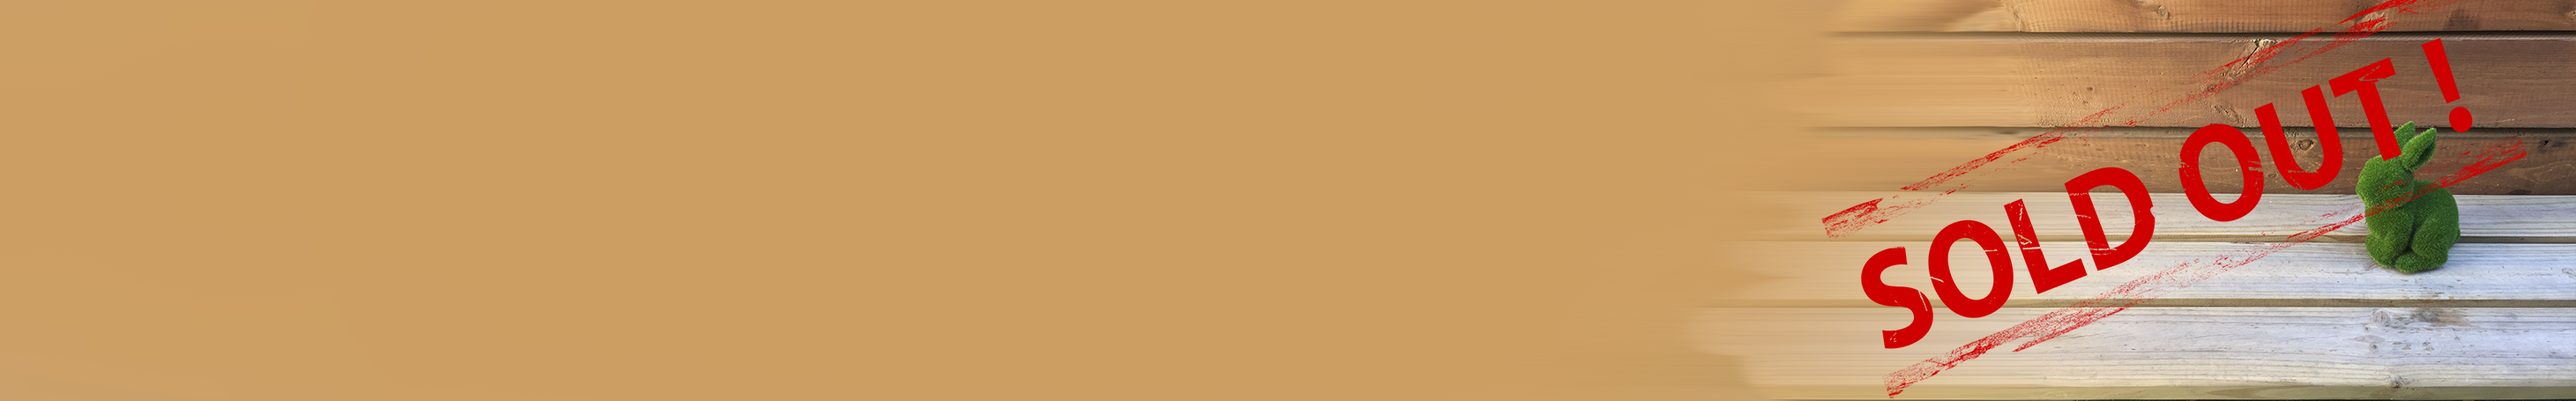
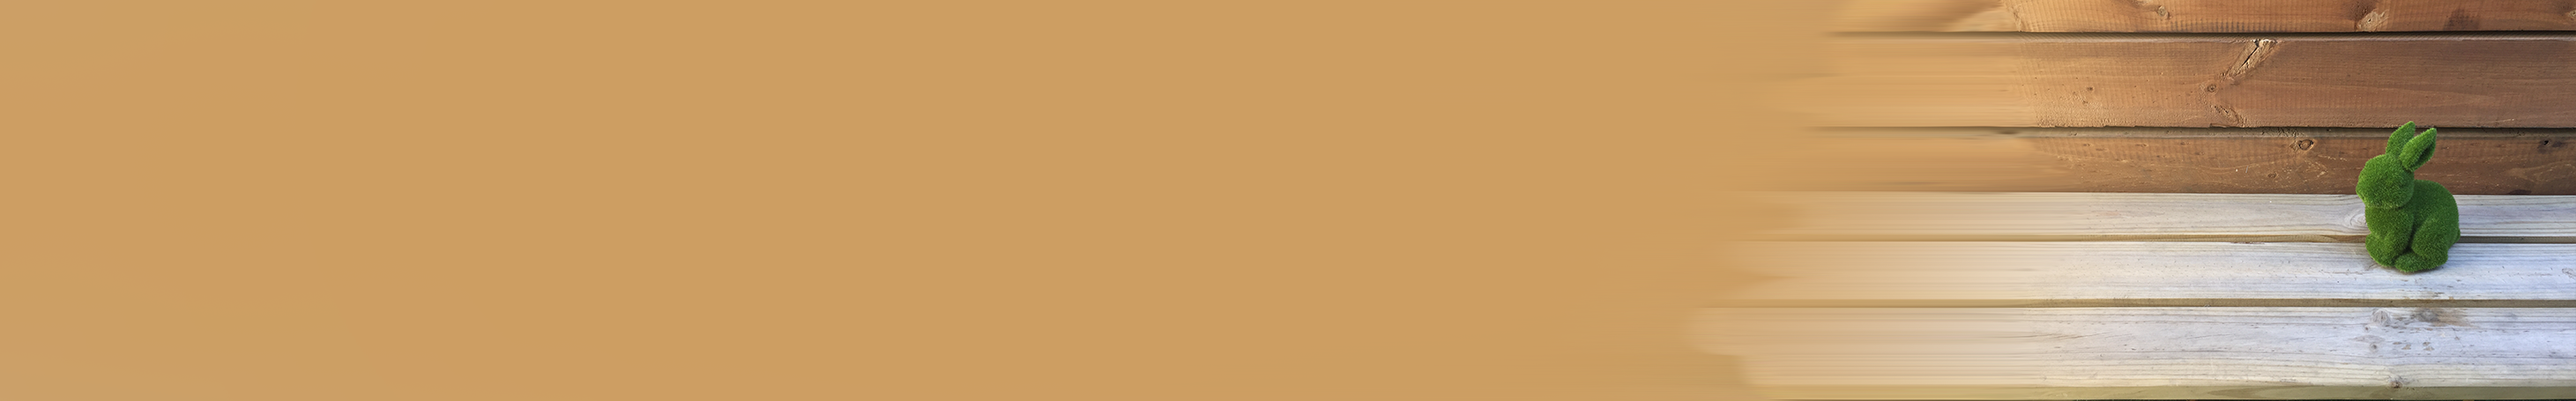
bunny not sold out, Buy with SnapScan updated

diff --git a/index.html b/index.html
@@ -85,11 +85,11 @@
                 <div class="thumbnail-1">
                     <img class="hidden-xs" src="./img/products/snapcode1.png" alt="">
                     <div class="caption">
-                        <h3 color:"white">Grass Rabbit : SOLD OUT</h3>
+                        <h3 color:"white">Grass Rabbit : R180</h3>
                         <h4>A cute addition to any home or office.</h4>
                         <p>
-                            <a href="https://pos.snapscan.io/qr/abodeSS?amount=18000&id=grassbunny" target="_blank" class="btn btn-primary">Click to <b>Pay with SnapScan</b></a>
-                            <a href="http://seene.co/s/HMqwta/" target="_blank" class="btn btn-default">View 3D on <b>Seene</b></a>
+                            <a href="https://pos.snapscan.io/qr/abodeSS?amount=18000&id=grassbunny" target="_blank" class="btn btn-primary">Buy with SnapScan</a>
+                            <a href="http://seene.co/s/HMqwta/" target="_blank" class="btn btn-default">View in 3D</a>
                         </p>
                     </div>
                 </div>
@@ -102,8 +102,8 @@
                         <h3>Hand Bowl : R400</h3>
                         <h4>Hand crafted wooden bowl.</h4>
                         <p>
-                            <a href="https://pos.snapscan.io/qr/abodeSS?amount=40000&id=handbowl" target="_blank" class="btn btn-primary">Click to <b>Pay with SnapScan</b></a>
-                            <a href="http://seene.co/s/cz9C7S/" target="_blank" class="btn btn-default">View 3D on <b>Seene</b></a>
+                            <a href="https://pos.snapscan.io/qr/abodeSS?amount=40000&id=handbowl" target="_blank" class="btn btn-primary">Buy with SnapScan</b></a>
+                            <a href="http://seene.co/s/cz9C7S/" target="_blank" class="btn btn-default">View in 3D</a>
                         </p>
                     </div>
                 </div>
@@ -116,8 +116,8 @@
                         <h3>"More" Canvas : R330</h3>
                         <h4>Perfect gift for your bedroom.</h4>
                         <p>
-                            <a href="https://pos.snapscan.io/qr/abodeSS?amount=33000&id=morecanvas" target="_blank" class="btn btn-primary">Click to <b>Pay with SnapScan</b></a>
-                            <a href="http://seene.co/s/VhwAGN/" target="_blank" class="btn btn-default">View 3D on <b>Seene</b></a>
+                            <a href="https://pos.snapscan.io/qr/abodeSS?amount=33000&id=morecanvas" target="_blank" class="btn btn-primary">Buy with SnapScan</a>
+                            <a href="http://seene.co/s/VhwAGN/" target="_blank" class="btn btn-default">View in 3D</a>
                         </p>
                     </div>
                 </div>
@@ -130,7 +130,7 @@
                         <h3>Pencil Set : R95</h3>
                         <h4>Brightly coloured pencils stored in a pencil.</h4>
                         <p>
-                            <a href="https://pos.snapscan.io/qr/abodeSS?amount=9500&id=pencilset" target="_blank" class="btn btn-primary">Click to <b>Pay with SnapScan</b></a>
+                            <a href="https://pos.snapscan.io/qr/abodeSS?amount=9500&id=pencilset" target="_blank" class="btn btn-primary">Buy with SnapScan</a>
                             
                         </p>
                     </div>
@@ -144,7 +144,7 @@
                         <h3>Koi Bowl : R228</h3>
                         <h4>Why go soy when you can go koi?</h4>
                         <p>
-                            <a href="https://pos.snapscan.io/qr/abodeSS?amount=22800&id=koibowl" target="_blank" class="btn btn-primary">Click to <b>Pay with SnapScan</b></a>
+                            <a href="https://pos.snapscan.io/qr/abodeSS?amount=22800&id=koibowl" target="_blank" class="btn btn-primary">Buy with SnapScan</a>
                         </p>
                     </div>
                 </div>
@@ -158,7 +158,7 @@
                         <h3>Sunglasses Mirror : R195</h3>
                         <h4>At home on the wall of any hipster pad.</h4>
                         <p>
-                            <a href="https://pos.snapscan.io/qr/abodeSS?amount=19500&id=sunglassesmirror" target="_blank" class="btn btn-primary">Click to <b>Pay with SnapScan</b></a>
+                            <a href="https://pos.snapscan.io/qr/abodeSS?amount=19500&id=sunglassesmirror" target="_blank" class="btn btn-primary">Buy with SnapScan</a>
                             
                         </p>
                     </div>
@@ -173,7 +173,7 @@
                         <h3>Yellow Bucket Light : R250</h3>
                         <h4>A lightshade made from a white bucket.</h4>
                         <p>
-                            <a href="https://pos.snapscan.io/qr/abodeSS?amount=25000&id=yellowbucket" target="_blank" class="btn btn-primary">Click to <b>Pay with SnapScan</b></a>
+                            <a href="https://pos.snapscan.io/qr/abodeSS?amount=25000&id=yellowbucket" target="_blank" class="btn btn-primary">Buy with SnapScan</a>
                             
                         </p>
                     </div>
@@ -187,7 +187,7 @@
                         <h3>White Bucket Light : R250</h3>
                         <h4>And we have a white one.</h4>
                         <p>
-                            <a href="https://pos.snapscan.io/qr/abodeSS?amount=25000&id=whitebucket" target="_blank" class="btn btn-primary">Click to <b>Pay with SnapScan</b></a>
+                            <a href="https://pos.snapscan.io/qr/abodeSS?amount=25000&id=whitebucket" target="_blank" class="btn btn-primary">Buy with SnapScan</b></a>
                             
                         </p>
                     </div>
@@ -201,7 +201,7 @@
                         <h3>Moon Canvas : R450</h3>
                         <h4>What more do you want?</h4>
                         <p>
-                            <a href="https://pos.snapscan.io/qr/abodeSS?amount=45000&id=mooncanvas" target="_blank" class="btn btn-primary">Click to <b>Pay with SnapScan</b></a>
+                            <a href="https://pos.snapscan.io/qr/abodeSS?amount=45000&id=mooncanvas" target="_blank" class="btn btn-primary">Buy with SnapScan</b></a>
                             
                         </p>
                     </div>
@@ -216,7 +216,7 @@
                         <h3>J Hook : R180</h3>
                         <h4>Simplest way to hang your goodies on the wall.</h4>
                         <p>
-                            <a href="https://pos.snapscan.io/qr/abodeSS?amount=18000&id=hook" target="_blank" class="btn btn-primary">Click to <b>Pay with SnapScan</b></a>
+                            <a href="https://pos.snapscan.io/qr/abodeSS?amount=18000&id=hook" target="_blank" class="btn btn-primary">Buy with SnapScan</a>
                             
                         </p>
                     </div>
